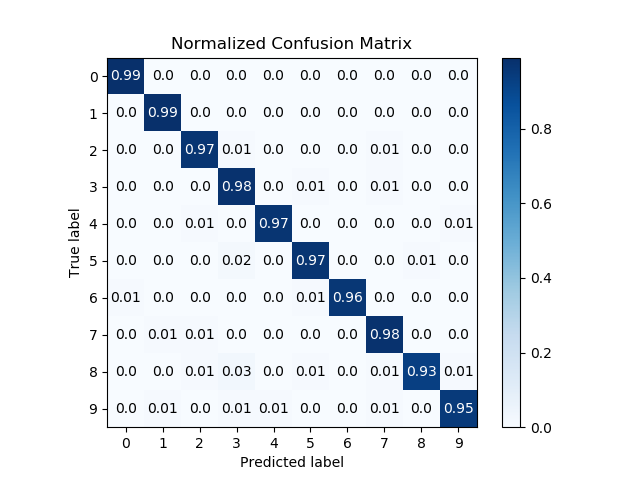
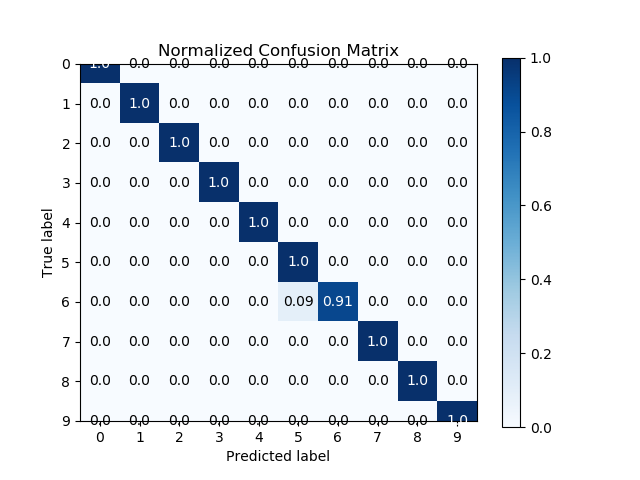
code & readme updated

diff --git a/MLP.py b/MLP.py
@@ -20,19 +20,19 @@ import numpy as np
 import tensorflow as tf
 import platform
 
-# set constants
-LEARNING_RATE = 0.001
-batch_size = 64
-display_step = 1
-total_train_data = None
-total_test_data = None
 log_dir = os.getcwd()
 generic_slash = None
 if platform.system() == 'Windows':
   generic_slash = '\\'
 else:
   generic_slash = '/'
-TOTAL_EPOCHS = 1000
+
+# set constants
+TOTAL_EPOCHS = 10
+learning_rate = 0.004   # The optimization initial learning rate
+batch_size = 100
+total_train_data = None
+total_test_data = None
 
 # network parameters
 label_count = 10
@@ -68,55 +68,52 @@ def encodeLabels(labels_decoded):
             encoded_labels[x][9] = 1
     return encoded_labels
 
-def weight_variable(shape):
-  # uses default std. deviation
-  initial = tf.random_normal(shape)
+def weight_variable(shape, std_dev):
+  # Uses custom std. deviation as the reciprocal of the square root of the number of features
+  # This initializes the weights with normal distribution that have a low std. deviation
+  initial = tf.random_normal(shape, std_dev)
   return tf.Variable(initial)
 
 def bias_variable(shape):
-  # uses default bias
+  # Uses default bias
   initial = tf.random_normal(shape)
   return tf.Variable(initial)
 
 def multilayer_perceptron(x):
-	x_image = tf.reshape(x, [-1, data_width*data_height])
-	
-	# Define Regularizer
-	regularizer = tf.keras.constraints.MaxNorm(max_value=2)
-	
-	weights = {
-			'h1': weight_variable([data_width*data_height, n_hidden_1]),    #784x256
-			'h2': weight_variable([n_hidden_1, n_hidden_2]), #256x256
-			'out': weight_variable([n_hidden_2, label_count])  #256x10
-	}
-	biases = {
-			'b1': bias_variable([n_hidden_1]),             #256x1
-			'b2': bias_variable([n_hidden_2]),             #256x1
-			'out': bias_variable([label_count])              #10x1
-	}
+  x_image = tf.reshape(x, [-1, data_width*data_height])
 
-	# Hidden layer 1 with RELU activation
-	layer_1 = tf.add(tf.matmul(x_image, regularizer.__call__(w=weights['h1'])), biases['b1'])
-	layer_1 = tf.nn.relu(layer_1)
-	
-	# Hidden layer with RELU activation     
-	layer_2 = tf.add(tf.matmul(layer_1, regularizer.__call__(w=weights['h2'])), biases['b2'])
-	layer_2 = tf.nn.relu(layer_2)
-	
-	# Batch Norm
-	batch_norm = tf.layers.batch_normalization(layer_2,momentum=0.1,epsilon=1e-5)
-	
+  # Define Regularizer
+  regularizer = tf.keras.constraints.MaxNorm(max_value=2)
+
+  weights = {
+    'h1': weight_variable([data_width*data_height, n_hidden_1], 1/tf.sqrt(float(data_width*data_height))),    #784x256
+    'h2': weight_variable([n_hidden_1, n_hidden_2], 1/tf.sqrt(float(n_hidden_1))),                            #256x256
+    'out': weight_variable([n_hidden_2, label_count], 1/tf.sqrt(float(n_hidden_2)))                          #256x10
+  }
+  biases = {
+    'b1': bias_variable([n_hidden_1]),             #256x1
+    'b2': bias_variable([n_hidden_2]),             #256x1
+    'out': bias_variable([label_count])              #10x1
+  }
+
+  # Hidden layer 1 with RELU activation
+  layer_1 = tf.add(tf.matmul(x_image, regularizer.__call__(w=weights['h1'])), biases['b1'])
+  layer_1 = tf.nn.relu(layer_1)
+
+  # Hidden layer with RELU activation     
+  layer_2 = tf.add(tf.matmul(layer_1, regularizer.__call__(w=weights['h2'])), biases['b2'])
+  layer_2 = tf.nn.relu(layer_2)
+
+  # Batch Norm
+  batch_norm = tf.layers.batch_normalization(layer_2,momentum=0.1,epsilon=1e-5)
+
   # Dropout
-	keep_prob = tf.placeholder(tf.float32, name = "keep_prob")
-	layer_2_drop = tf.nn.dropout(batch_norm, keep_prob)
+  keep_prob = tf.placeholder(tf.float32, name = "keep_prob")
+  layer_2_drop = tf.nn.dropout(batch_norm, keep_prob)
 
-	# Max Norm
-	regularizer = tf.keras.constraints.MaxNorm(max_value=0.5)
-
-	# Output layer with linear activation    
-	out_layer = tf.nn.softmax(tf.matmul(layer_2_drop, regularizer.__call__(w=weights['out'])) + biases['out'], name = "y_conv")
-	
-	return out_layer, keep_prob
+  # Output layer with linear activation    
+  out_layer = tf.nn.softmax(tf.matmul(layer_2_drop, weights['out']) + biases['out'], name = "ann")
+  return out_layer, keep_prob
 
 # Create a method to run the model, save it, & get statistics
 def run_model():
@@ -156,30 +153,31 @@ def run_model():
   test_next_element = test_iterator.get_next()
 
   print("Defining Model Placeholders")
-  # Create the model
+  # Create the data & label placeholders
   x = tf.placeholder(tf.float32, [None, data_width, data_height], name = "x")
-
-  # Define loss and optimizer
   y_ = tf.placeholder(tf.int8, [None, label_count], name = "y_")
 
-  # Build the graph for the deep net
-  y_conv, keep_prob = multilayer_perceptron(x)
+  # Build the graph for the ANN
+  ann, keep_prob = multilayer_perceptron(x)
 
-  # Create loss op
-  cross_entropy = tf.reduce_mean(
-      tf.nn.softmax_cross_entropy_with_logits(labels=y_, logits=y_conv))
-  tf.summary.scalar('cross_entropy', cross_entropy)
+  # Create loss (cross-entropy) op
+  loss = tf.reduce_mean(
+      tf.nn.softmax_cross_entropy_with_logits_v2(labels=y_, logits=ann))
+  tf.summary.scalar('loss', loss)
 
-  # Create train op
-  train_step = tf.train.AdamOptimizer(learning_rate=LEARNING_RATE).minimize(cross_entropy)
+  # Create train (adam-optimizer) op
+  train = tf.train.AdamOptimizer(learning_rate).minimize(loss)
 
-  CNN_prediction_label = tf.argmax(y_conv, 1)
+  pred_label = tf.argmax(ann, 1)
   actual_label = tf.argmax(y_, 1)
-  correct_prediction = tf.equal(CNN_prediction_label, actual_label)
+  correct_prediction = tf.equal(pred_label, actual_label)
 
   # Create accuracy op
   accuracy = tf.reduce_mean(tf.cast(correct_prediction, tf.float32))
   tf.summary.scalar('accuracy', accuracy)
+
+  print("Train data amount -> " + str(total_train_data))
+  print("Test data amount -> " + str(total_test_data))
 
   # Initialize and Run
   with tf.Session() as sess:
@@ -195,47 +193,41 @@ def run_model():
     print("----------------------|   |----|-----|---|   ---------|------|--\--|---------------------")
     print("----------------------|    |---|     ----|     |------|------|---\-|---------------------")
     print("----------------------|----/---|-----|----\----/---|-----|---|----\|---------------------")
-    for i in range(TOTAL_EPOCHS + 1):
-      if i % 100 == 0:
-        validation_batch = sess.run(test_next_element)
-        summary, acc = sess.run([merged, accuracy], feed_dict={
-            x: validation_batch[0], y_: validation_batch[1], keep_prob: 1.0})
-        print('step ' + str(i) + ', test accuracy ' + str(acc))
-        # Save the model
-        saver.save(sess, log_dir + generic_slash + "tensorflow" + generic_slash + "mnist_model.ckpt")
-        # Save the summaries
-        test_writer.add_summary(summary, i)
-        test_writer.flush()
-      print("epoch " + str(i))
-      batch = sess.run(train_next_element)
-      summary, _ = sess.run([merged, train_step], feed_dict={
-          x: batch[0], y_: batch[1], keep_prob: 0.5})
-      train_writer.add_summary(summary, i)
-      train_writer.flush()
+    global_counter = 0
+    # Number of training iterations in each epoch
+    num_tr_iter = int(total_train_data / batch_size)
+    for epoch in range(TOTAL_EPOCHS):
+      for iteration in range(num_tr_iter):
+        batch = sess.run(train_next_element)
+        summary, _ = sess.run([merged, train], feed_dict={x: batch[0], y_: batch[1], keep_prob: 0.5})
+        train_writer.add_summary(summary, global_counter)
+        train_writer.flush()
+        global_counter += 1
+    
+      # Run validation after every epoch
+      validation_batch = sess.run(test_next_element)
+      summary, acc, cross_entropy = sess.run([merged, accuracy, loss], feed_dict={x: validation_batch[0], y_: validation_batch[1], keep_prob: 1.0})
+      print('Epoch ' + str(epoch+1) + ', Test Accuracy ' + str(acc) + ', Loss ' + str(cross_entropy))
+      # Save the model
+      saver.save(sess, log_dir + generic_slash + "tensorflow" + generic_slash + "mnist_model.ckpt")
+      # Save the summaries
+      test_writer.add_summary(summary, global_counter)
+      test_writer.flush()
+    
+    # Re-initialize
+    test_data = tf.data.Dataset.zip((test_x_dataset, test_y_dataset)).shuffle(buffer_size=total_test_data).repeat().batch(total_test_data).prefetch(buffer_size=1)
+    test_iterator = test_data.make_initializable_iterator()
+    test_next_element = test_iterator.get_next()
+    sess.run(test_iterator.initializer)
+
     # Evaluate over the entire test dataset
-    # Re-initialize
-    test_data = tf.data.Dataset.zip((test_x_dataset, test_y_dataset)).shuffle(buffer_size=total_test_data).repeat().batch(total_test_data).prefetch(buffer_size=1)
-    test_iterator = test_data.make_initializable_iterator()
-    test_next_element = test_iterator.get_next()
-    sess.run(test_iterator.initializer)
-    
-    # Run for final accuracy
-    validation_batch = sess.run(test_next_element)
-    print('Final Accuracy ' + str(accuracy.eval(feed_dict={
-        x: validation_batch[0], y_: validation_batch[1], keep_prob: 1.0})))
-    print("FINISHED")
-    
-    # Re-initialize
-    test_data = tf.data.Dataset.zip((test_x_dataset, test_y_dataset)).shuffle(buffer_size=total_test_data).repeat().batch(total_test_data).prefetch(buffer_size=1)
-    test_iterator = test_data.make_initializable_iterator()
-    test_next_element = test_iterator.get_next()
-    sess.run(test_iterator.initializer)
-    
     print("Creating Confusion Matrix")
-    predict, correct = sess.run([CNN_prediction_label, actual_label], feed_dict={
+    predict, correct, acc, cross_entropy = sess.run([pred_label, actual_label, accuracy, loss], feed_dict={
         x: validation_batch[0], y_: validation_batch[1], keep_prob: 1.0})
+    print('Final Test Accuracy ' + str(acc) + ', Loss ' + str(cross_entropy))
     skplt.metrics.plot_confusion_matrix(correct, predict, normalize=True)
     plt.savefig(log_dir + generic_slash + "tensorflow" + generic_slash + "plot.png")
+    print("FINISHED")
     
 # Create a loader for the graph
 def graph_loader():
@@ -252,11 +244,8 @@ def graph_loader():
     x = graph.get_tensor_by_name("x:0")
     global y_
     y_ = graph.get_tensor_by_name("y_:0")
-    global y_conv
-    y_conv = graph.get_tensor_by_name("y_conv:0")
-    global keep_prob
-    keep_prob = graph.get_tensor_by_name("keep_prob:0")
-
+    global ann
+    ann = graph.get_tensor_by_name("ann:0")
 
 # RUN THE PROGRAM
 run_model()

diff --git a/README.md b/README.md
@@ -5,6 +5,12 @@ Fully Connected Neural Network:
 
 [MLP]: https://raw.githubusercontent.com/ECE-Engineer/TensorFlow-Multilayer-Perceptron/master/MLP.png "Multilayer Perceptron"
 
+## Added
+* Regularization:
+  - max norm
+  - batch norm
+* Dropout
+
 Confusion Matrix:
 ![Confusion Matrix][CM]
 
@@ -19,23 +25,3 @@ Loss Plot (Orange: Training data, Blue: Testing data):
 ![Loss Plot][LP]
 
 [LP]: https://raw.githubusercontent.com/ECE-Engineer/TensorFlow-Multilayer-Perceptron/master/loss.jpg "Loss Plot"
-
-## Extras
-* Dropout
-* Regularization
-* Other weight initializations
-
-Confusion Matrix (w/ Extra Configurations):
-![Confusion Matrix][CM1]
-
-[CM1]: https://raw.githubusercontent.com/ECE-Engineer/TensorFlow-Multilayer-Perceptron/master/plot1.png "Confusion Matrix"
-
-Accuracy Plot (w/ Extra Configurations) (Orange: Training data, Blue: Testing data):
-![Accuracy Plot][AP1]
-
-[AP1]: https://raw.githubusercontent.com/ECE-Engineer/TensorFlow-Multilayer-Perceptron/master/acc1.jpg "Accuracy Plot"
-
-Loss Plot (w/ Extra Configurations) (Orange: Training data, Blue: Testing data):
-![Loss Plot][LP1]
-
-[LP1]: https://raw.githubusercontent.com/ECE-Engineer/TensorFlow-Multilayer-Perceptron/master/loss1.jpg "Loss Plot"
